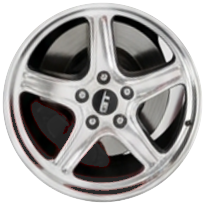
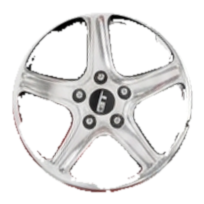
Frutiger Aero rims: only the spokes turn
The rim's dish (inner barrel crescent), lip, rotor and calliper no longer
rotate. rim_fit.py keeps only five-fold-symmetric bright pixels (spokes +
centre cap) in each frontal disc, refines the hub by maximising that
symmetry, and builds hubs.png: the wheel interiors from an AI edit of the
same image with the spokes removed, composited under the spinning spokes.
Parked, the untouched photo is shown.

diff --git a/ui/src/designs/y2k/Y2K.tsx b/ui/src/designs/y2k/Y2K.tsx
@@ -86,23 +86,26 @@ function Y2K({ ctx }: { ctx: DesignContext }) {
 }
 
 /**
- * The glossy car, unchanged, with only the rims turning — in true perspective.
- * tools/rim_fit.py fits each rim's ellipse and hub in the picture, builds the
- * homography H from a head-on disc to that rim, and un-projects the rim into a
- * frontal disc image. Here each disc spins flat and is re-projected through H
- * (CSS matrix3d), so it lands exactly on the original pixels at every angle.
- * Spin rate follows speed, gently, and coasts to a stop.
+ * The glossy car, unchanged, with only the spokes turning — in true perspective.
+ * tools/rim_fit.py fits each rim's ellipse and hub, builds the homography H from
+ * a head-on disc to that rim, and un-projects the rim to a frontal disc that keeps
+ * only the spokes and centre cap (five-fold-symmetric bright pixels). The barrel,
+ * lip, rotor and calliper don't turn: while moving they come from hubs.png, the
+ * same picture with the spokes removed (AI edit, wheel interiors only). Each disc
+ * spins flat and is re-projected through H (CSS matrix3d). Parked, the untouched
+ * photo shows; spin rate follows speed and settles on a five-spoke multiple.
  */
 const CAR_W = 1400, CAR_H = 538;
 const RIMS = [
-  { src: "/art/y2k/front.png", size: 204, h: "matrix3d(0.02551838, 0.8277785, 0, -0.0002592865, -1.000844, 0.1423875, 0, -0.0001683049, 0, 0, 1, 0, 834.8268, 284.4885, 0, 1)" },
-  { src: "/art/y2k/rear.png", size: 158, h: "matrix3d(0.09049304, 1.109421, 0, 0.0001323138, -0.5283466, 0.2884114, 0, 0.0007166189, 0, 0, 1, 0, 166.1952, 255.5605, 0, 1)" },
+  { src: "/art/y2k/front.png", size: 204, h: "matrix3d(0.2467546, 0.9696934, 0, 1.929843e-05, -1.015908, 0.1555687, 0, -0.0001516555, 0, 0, 1, 0, 837.4443, 283.7018, 0, 1)" },
+  { src: "/art/y2k/rear.png", size: 158, h: "matrix3d(0.06756157, 0.8791339, 0, 6.076005e-05, -0.7187701, -0.5489015, 0, -0.001706218, 0, 0, 1, 0, 167.0116, 271.443, 0, 1)" },
 ];
 
 function AeroCar({ speedMph, className }: { speedMph: number; className?: string }) {
   const box = useRef<HTMLDivElement>(null);
   const stage = useRef<HTMLDivElement>(null);
   const rims = useRef<(HTMLImageElement | null)[]>([]);
+  const plate = useRef<HTMLImageElement>(null);
   const speed = useRef(speedMph);
   speed.current = speedMph;
   useEffect(() => {
@@ -114,6 +117,7 @@ function AeroCar({ speedMph, className }: { speedMph: number; className?: string
     const show = (on: boolean) => {
       if (on === shown) return; shown = on;
       for (const r of rims.current) if (r?.parentElement) r.parentElement.style.opacity = on ? "1" : "0";
+      if (plate.current) plate.current.style.opacity = on ? "1" : "0";
     };
     const frame = (now: number) => {
       raf = requestAnimationFrame(frame);
@@ -141,6 +145,7 @@ function AeroCar({ speedMph, className }: { speedMph: number; className?: string
     <div ref={box} className={`ae-carbox ${className ?? ""}`} style={{ aspectRatio: `${CAR_W} / ${CAR_H}` }}>
       <div ref={stage} className="ae-car-stage">
         <img className="ae-car-img" src="/art/y2k/car.png" alt="" />
+        <img ref={plate} className="ae-car-img ae-hubs" src="/art/y2k/hubs.png" alt="" style={{ opacity: 0 }} />
         {RIMS.map((w, i) => (
           <div key={w.src} className="ae-rim" style={{ width: w.size, height: w.size, transform: w.h, opacity: 0 }}>
             <img ref={(el) => { rims.current[i] = el; }} src={w.src} alt="" />

diff --git a/ui/src/designs/y2k/y2k.css b/ui/src/designs/y2k/y2k.css
@@ -158,3 +158,4 @@
 .ae-rim { left: 0; top: 0; transform-origin: 0 0; }
 .ae-rim img { transform-origin: 50% 50%; }
 .ae-rim { transition: opacity 350ms ease; }
+.ae-hubs { transition: opacity 350ms ease; }

diff --git a/ui/tools/rim_fit.py b/ui/tools/rim_fit.py
@@ -10,7 +10,7 @@ the homography H that maps a head-on unit disc onto that rim *in perspective*
   * print H (in disc-pixel -> image-pixel form) for CSS matrix3d, so the page
     can rotate the disc and re-project it exactly onto the picture.
 
-usage: tools/rim_fit.py car.png out_dir name:cx,cy,rx,ry [...]
+usage: [PLATE=spokeless.png] tools/rim_fit.py car.png out_dir name:cx,cy,rx,ry [...]
   (cx, cy, rx, ry = rough ellipse around the rim, a little larger, bounds the search)
 """
 import json, math, os, subprocess, sys
@@ -106,40 +106,108 @@ def homography(f):
     Ri = [[math.cos(al), math.sin(al), 0], [-math.sin(al), math.cos(al), 0], [0, 0, 1]]
     return mat_mul(A, mat_mul(R, mat_mul(B, Ri)))
 
+def unproject(car, f, R, path):
+    H = homography(f)
+    pairs = []
+    for k in range(8):
+        t = k * math.pi / 4
+        for rr in (0.97, 0.5):
+            ux, uy = rr * math.cos(t), rr * math.sin(t)
+            ix, iy = apply(H, ux, uy)
+            pairs += [f"{ix:.3f},{iy:.3f} {R + ux * R:.3f},{R + uy * R:.3f}"]
+    subprocess.check_call(["magick", car, "-virtual-pixel", "transparent", "-define", f"distort:viewport={2*R}x{2*R}+0+0",
+                           "-distort", "Perspective", " ".join(pairs), "+repage", f"PNG32:{path}"])
+    return H
+
+def symmetry(path, R, out):
+    """How five-fold symmetric the bright (spoke) pixels are, inside 0.85 R: NCC with the 72-degree copy."""
+    m, r = f"{out}/_m.png", f"{out}/_r.png"
+    subprocess.check_call(["magick", path, "-fx",
+        f"(hypot(i-{R},j-{R}) < {0.85 * R} && (0.3*r+0.59*g+0.11*b) > 0.42 && (max(r,max(g,b)) - min(r,min(g,b))) < 0.2 && u.a > 0.5) ? 1 : 0",
+        "-colorspace", "Gray", m])
+    subprocess.check_call(["magick", m, "-virtual-pixel", "black", "-distort", "SRT", f"{R},{R} 72", r])
+    res = subprocess.run(["magick", "compare", "-metric", "NCC", m, r, "null:"], capture_output=True, text=True)
+    os.remove(m); os.remove(r)
+    # ImageMagick 7 reports NCC as a distortion: "raw (normalised)", 0 = identical
+    return 1 - float(res.stderr.split("(")[1].split(")")[0])
+
+def refine_hub(car, f, R, out):
+    """Search the projected hub position (+-12 px) for the most five-fold-symmetric disc."""
+    tmp = f"{out}/_d.png"
+    best = (symmetry_of(car, f, R, tmp, out), f["hx"], f["hy"])
+    for step in (2.0, 1.0, 0.5):
+        improved = True
+        while improved:
+            improved = False
+            for dx, dy in ((step, 0), (-step, 0), (0, step), (0, -step)):
+                g = dict(f, hx=best[1] + dx, hy=best[2] + dy)
+                if abs(g["hx"] - f["hx"]) > 12 or abs(g["hy"] - f["hy"]) > 12: continue
+                sc = symmetry_of(car, g, R, tmp, out)
+                if sc > best[0] + 1e-4: best = (sc, g["hx"], g["hy"]); improved = True
+    os.remove(tmp)
+    return dict(f, hx=best[1], hy=best[2], sym=best[0])
+
+def symmetry_of(car, f, R, tmp, out):
+    unproject(car, f, R, tmp)
+    return symmetry(tmp, R, out)
+
 def main():
     car, out = sys.argv[1], sys.argv[2]
     w, h, raw = load_rgba(car)
-    result = {}
+    result, plates = {}, []
+    plate = os.environ.get("PLATE")   # same image with the spokes removed (aligned)
     for spec in sys.argv[3:]:
         name, nums = spec.split(":"); cx0, cy0, rx0, ry0 = map(float, nums.split(","))
         f = fit_rim(raw, w, h, cx0, cy0, rx0, ry0)
-        H = homography(f)
         R = round(max(f["a"], f["b"]))                     # frontal disc radius in px (rim edge)
+        f0 = dict(f)
+        f = refine_hub(car, f, R, out)
+        print(f"{name}: hub {f0['hx']:.1f},{f0['hy']:.1f} -> {f['hx']:.1f},{f['hy']:.1f}  symmetry {f['sym']:.3f}", file=sys.stderr)
+        disc = f"{out}/{name}.png"
+        H = unproject(car, f, R, disc)
         S = [[R, 0, R], [0, R, R], [0, 0, 1]]              # unit disc -> disc pixels
         M = mat_mul(H, mat_inv(S))                         # disc pixels -> image pixels
         M = [[v / M[2][2] for v in row] for row in M]
-        # un-project: 8 points on the rim circle (and a bit inside) -> frontal disc
-        pairs = []
-        for k in range(8):
-            t = k * math.pi / 4
-            for rr in (0.97, 0.5):
-                ux, uy = rr * math.cos(t), rr * math.sin(t)
-                ix, iy = apply(H, ux, uy)
-                pairs += [f"{ix:.3f},{iy:.3f} {R + ux * R:.3f},{R + uy * R:.3f}"]
-        disc = f"{out}/{name}.png"
-        subprocess.check_call(["magick", car, "-virtual-pixel", "transparent", "-define", f"distort:viewport={2*R}x{2*R}+0+0",
-                               "-distort", "Perspective", " ".join(pairs), "+repage", f"PNG32:{disc}"])
         # keep only the disc (rim + a sliver of tyre): circular alpha mask
         mask = f"{out}/{name}-mask.png"
         subprocess.check_call(["magick", "-size", f"{2*R}x{2*R}", "xc:black", "-fill", "white",
                                "-draw", f"circle {R},{R} {R},{R - R * 0.975:.2f}", mask])
         subprocess.check_call(["magick", disc, mask, "-alpha", "off", "-compose", "CopyAlpha", "-composite", f"PNG32:{disc}"])
         os.remove(mask)
-        # brake callipers don't turn with the wheel: neutralise saturated reds in the
-        # disc to rotor-dark grey so nothing red travels around the rim
-        subprocess.check_call(["magick", disc, "-channel", "RGB", "-fx",
-                               "(r > 0.25 && r > 1.5*g && r > 1.5*b) ? 0.13 + 0.15*(g+b)/2 : u", "+channel", f"PNG32:{disc}"])
+        # only the spokes and centre cap turn: everything else in the disc (gaps,
+        # barrel, rotor, calliper) becomes transparent so the static plate shows.
+        # Spokes are found by brightness, then kept only where the wheel's
+        # five-fold symmetry agrees (a pixel and its 72/144/216/288-degree copies
+        # are mostly bright): the one-sided barrel crescent and lip glare fail that.
+        cap, outer = 0.3 * R, 0.88 * R
+        thr = os.environ.get(f"SYM_{name.upper()}", "68")   # % of the 5 rotations that must agree
+        m = f"{out}/{name}-m.png"
+        subprocess.check_call(["magick", disc, "-fx",
+            "((0.3*r+0.59*g+0.11*b) > 0.42 && (max(r,max(g,b)) - min(r,min(g,b))) < 0.2 && u.a > 0.5) ? 1 : 0",
+            "-colorspace", "Gray", m])
+        rots = []
+        for k in range(5):
+            rk = f"{out}/{name}-m{k}.png"
+            subprocess.check_call(["magick", m, "-virtual-pixel", "black", "-distort", "SRT", f"{R},{R} {72 * k}", rk])
+            rots.append(rk)
+        sym = f"{out}/{name}-sym.png"
+        subprocess.check_call(["magick", *rots, "-evaluate-sequence", "mean", "-threshold", f"{thr}%",
+            "-fx", f"(hypot(i-{R},j-{R}) < {cap}) ? 1 : ((hypot(i-{R},j-{R}) < {outer}) ? u : 0)",
+            "-morphology", "Close", f"Disk:{1.5 if R > 90 else 2.5}", "-blur", "0x0.7", sym])
+        subprocess.check_call(["magick", disc, "-alpha", "off", sym, "-compose", "CopyAlpha", "-composite", f"PNG32:{disc}"])
+        for f_ in [m, sym, *rots]: os.remove(f_)
+        plates.append((H, 0.92))
         result[name] = dict(size=2 * R, matrix=M, fit={k: round(v, 2) for k, v in f.items()})
+    if plate:
+        polys = []
+        for H, r in plates:
+            pts = [apply(H, r * math.cos(k * math.pi / 48), r * math.sin(k * math.pi / 48)) for k in range(96)]
+            polys.append("polygon " + " ".join(f"{x:.2f},{y:.2f}" for x, y in pts))
+        mask = f"{out}/plate-mask.png"
+        subprocess.check_call(["magick", "-size", f"{w}x{h}", "xc:black", "-fill", "white", "-draw", " ".join(polys), "-blur", "0x1", mask])
+        subprocess.check_call(["magick", plate, mask, "-alpha", "off", "-compose", "CopyAlpha", "-composite", f"PNG32:{out}/hubs.png"])
+        os.remove(mask)
+        result["plate"] = "hubs.png"
     print(json.dumps(result, indent=1))
 
 if __name__ == "__main__":
